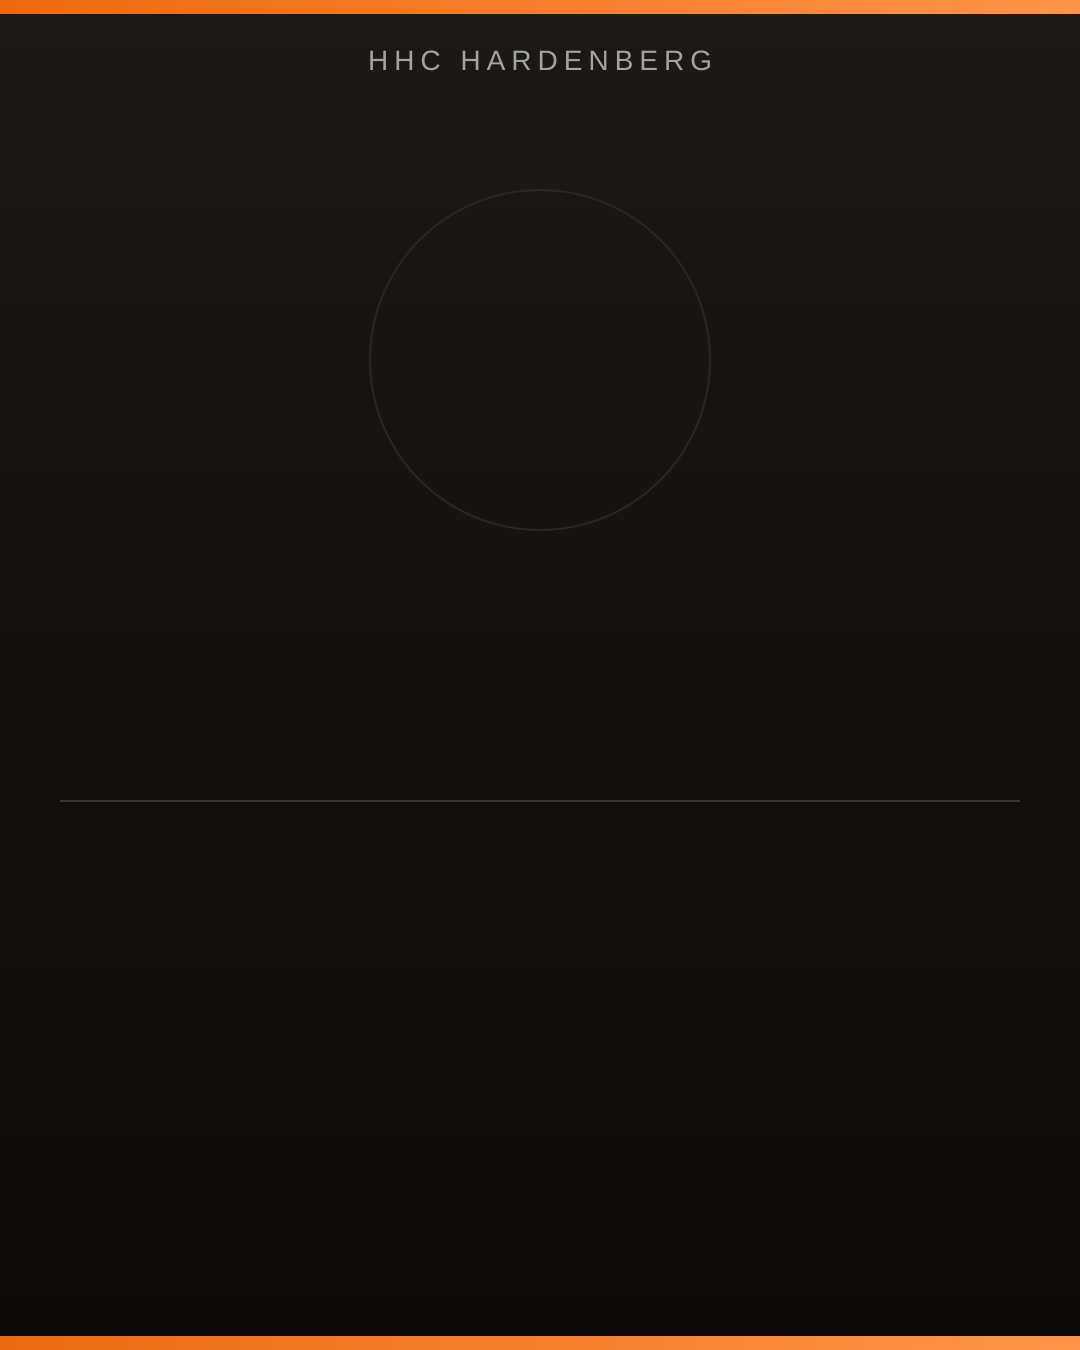
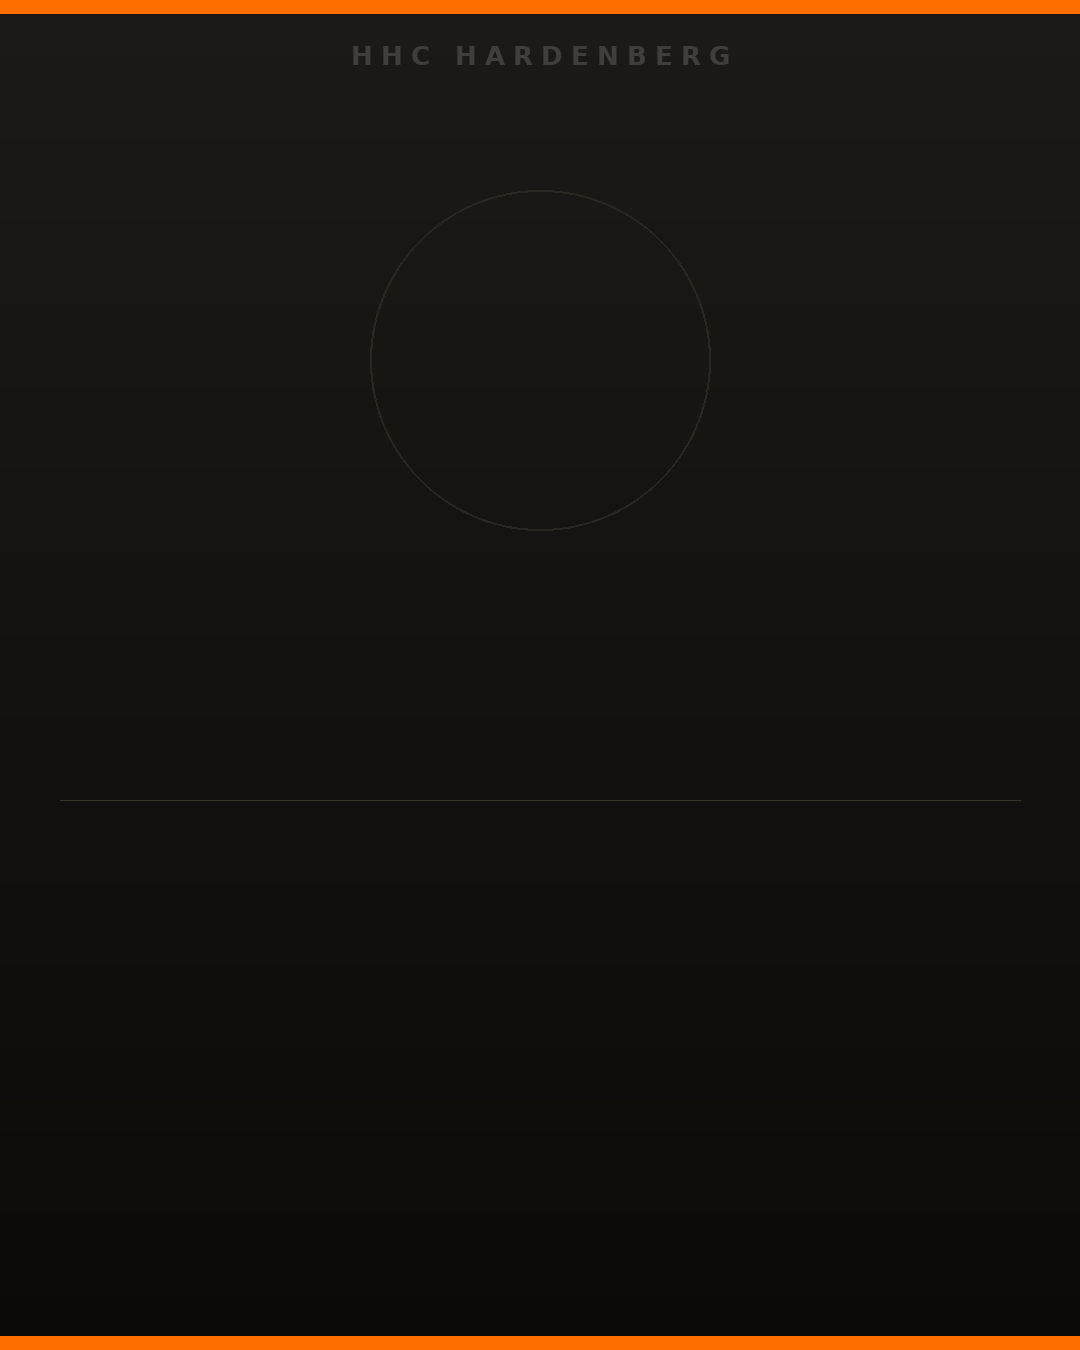
Align brand colors and typography with the official huisstijlhandboek
Corrected the official HHC Hardenberg brand colors to the exact values
in the club's huisstijlhandboek (Pantone Orange 021 / Pantone Black,
hex column): orange was #EA6A12 (an early approximation), now #FF6F00;
black was #14120F, now #000000. Updated every place these were
hardcoded as fallbacks/defaults (design tokens in globals.css, the
seeded BrandColor rows, PSD-import fallback colors, the color-layer
Zod schema default, and the seeded Matchday template + its static
background asset, regenerated with solid — not gradient — brand
orange, since the handbook explicitly requires orange to always be
used full-strength, never tinted).

While fixing the seed's brand colors, found and fixed a real data bug:
the old brandColor seeding used createMany + skipDuplicates on a
non-unique "name" field, so every re-run of the seed (e.g. via
/api/system/seed) silently created another duplicate row instead of
being a no-op. Replaced with a dedupe-and-update pass, and dropped two
non-official tinted swatches ("Oranje donker/licht") that were never
part of the handbook and contradict its "always full-strength, never a
tint" rule.

Also added a real typography fix: the browser (live preview + general
UI) never actually loaded admin-uploaded custom fonts like "FF DIN" —
only the server-side export did (see the earlier Inter-fallback fix).
Text using a custom font silently fell back to a system font in the
browser while the export showed the real font. Added <BrandFontFaces>,
[…]

Changed region(s): [[0.1222, 0.9644, 1.0, 1.0], [0.1222, 0.0, 1.0, 0.0622]]

diff --git a/src/lib/seed.ts b/src/lib/seed.ts
@@ -44,16 +44,46 @@ export async function runSeed(prisma: PrismaClient, options: SeedOptions): Promi
     },
   });
 
-  await prisma.brandColor.createMany({
-    data: [
-      { name: "HHC Oranje", hex: "#EA6A12", group: "primair", sortOrder: 0 },
-      { name: "HHC Zwart", hex: "#14120F", group: "primair", sortOrder: 1 },
-      { name: "HHC Wit", hex: "#FFFFFF", group: "primair", sortOrder: 2 },
-      { name: "Oranje donker", hex: "#C2530A", group: "secundair", sortOrder: 3 },
-      { name: "Oranje licht", hex: "#FF9548", group: "secundair", sortOrder: 4 },
-    ],
-    skipDuplicates: true,
-  });
+  // Officiële huisstijlkleuren uit het HHC Hardenberg huisstijlhandboek
+  // (PMS Orange 021 / PMS Black, RGB/hex-kolom). Het handboek stelt
+  // expliciet dat oranje altijd vol/ongemengd wordt toegepast — geen
+  // "secundaire" tinten dus. Bijgewerkt via een handmatige upsert (i.p.v.
+  // createMany+skipDuplicates, dat op het niet-unieke "name"-veld bij elke
+  // her-seed stilzwijgend een nieuwe dubbele rij aanmaakte in plaats van
+  // niets te doen) zodat een eerder met verkeerde hexwaarden geseede — en
+  // door die bug inmiddels gedupliceerde — omgeving bij het opnieuw draaien
+  // van deze seed alsnog wordt opgeschoond, zonder andere, door een admin
+  // zelf toegevoegde kleuren te raken.
+  const officialBrandColors = [
+    { name: "HHC Oranje", hex: "#FF6F00", group: "primair", sortOrder: 0 },
+    { name: "HHC Zwart", hex: "#000000", group: "primair", sortOrder: 1 },
+    { name: "HHC Wit", hex: "#FFFFFF", group: "primair", sortOrder: 2 },
+  ];
+  for (const color of officialBrandColors) {
+    const duplicates = await prisma.brandColor.findMany({
+      where: { name: color.name },
+      orderBy: { id: "asc" },
+    });
+    const [keep, ...extras] = duplicates;
+    if (extras.length > 0) {
+      await prisma.brandColor.deleteMany({ where: { id: { in: extras.map((e) => e.id) } } });
+    }
+    if (keep) {
+      await prisma.brandColor.update({
+        where: { id: keep.id },
+        data: { hex: color.hex, group: color.group, sortOrder: color.sortOrder },
+      });
+    } else {
+      await prisma.brandColor.create({ data: color });
+    }
+  }
+
+  // Deze twee tinten werden voorheen automatisch meegeseed, maar het
+  // huisstijlhandboek staat oranje alleen vol/ongemengd toe — nooit als
+  // tint. Ze stonden hier niet op verzoek van HHC, dus verwijderen we ze
+  // weer (alleen exact deze twee namen; door een admin zelf toegevoegde
+  // kleuren blijven onaangeroerd).
+  await prisma.brandColor.deleteMany({ where: { name: { in: ["Oranje donker", "Oranje licht"] } } });
 
   const club = await prisma.club.upsert({
     where: { id: "own-club-hhc" },
@@ -151,7 +181,7 @@ export async function runSeed(prisma: PrismaClient, options: SeedOptions): Promi
   const matchdaySchema: TemplateSchemaJson = {
     width: 1080,
     height: 1350,
-    backgroundColor: "#14120F",
+    backgroundColor: "#000000",
     layers: [
       { id: "bg", type: "background", x: 0, y: 0, width: 1080, height: 1350, src: "/templates/matchday/background.png" },
       {
@@ -167,7 +197,7 @@ export async function runSeed(prisma: PrismaClient, options: SeedOptions): Promi
         fontStyle: "normal",
         fontSize: 32,
         minFontSize: 20,
-        color: "#EA6A12",
+        color: "#FF6F00",
         align: "center",
         uppercase: true,
         letterSpacing: 4,
@@ -281,7 +311,7 @@ export async function runSeed(prisma: PrismaClient, options: SeedOptions): Promi
         height: 50,
         shape: "rect",
         cornerRadius: 0,
-        defaultColor: "#EA6A12",
+        defaultColor: "#FF6F00",
       },
     ],
   };
@@ -324,7 +354,7 @@ export async function runSeed(prisma: PrismaClient, options: SeedOptions): Promi
             { key: "date", label: "Datum", type: "DATE", required: true, sortOrder: 3 },
             { key: "time", label: "Aanvangstijd", type: "TIME", required: true, defaultValue: "15:30", sortOrder: 4 },
             { key: "location", label: "Locatie", type: "SHORT_TEXT", required: false, defaultValue: "Sportpark de Boshoek", maxLength: 60, sortOrder: 5 },
-            { key: "accent_color", label: "Accentkleur", type: "BRAND_COLOR", required: false, defaultValue: "#EA6A12", sortOrder: 6 },
+            { key: "accent_color", label: "Accentkleur", type: "BRAND_COLOR", required: false, defaultValue: "#FF6F00", sortOrder: 6 },
           ],
         },
       },

diff --git a/src/app/globals.css b/src/app/globals.css
@@ -5,12 +5,21 @@
  * Alle huisstijlkleuren staan hier als CSS-variabelen zodat de branding
  * later centraal kan worden aangepast zonder de rest van de applicatie
  * te hoeven wijzigen. Componenten mogen NOOIT een hexcode hardcoden.
+ *
+ * --hhc-orange en --hhc-black zijn de officiële huisstijlkleuren uit het
+ * HHC Hardenberg huisstijlhandboek (PMS Orange 021 = #FF6F00, PMS Black =
+ * #000000 op beeldscherm/RGB) — niet wijzigen zonder het handboek erbij te
+ * pakken. -dark/-light zijn GEEN officiële huisstijlkleuren (het handboek
+ * stelt expliciet dat oranje altijd vol/ongemengd wordt toegepast, nooit in
+ * een tint) maar puur functionele afgeleide tinten voor UI-interactiestaten
+ * (hover/pressed/subtiele achtergronden) — voor logo's, drukwerk en
+ * exports altijd de volle --hhc-orange gebruiken.
  */
 :root {
-  --hhc-orange: #ea6a12;
-  --hhc-orange-dark: #c2530a;
-  --hhc-orange-light: #ff9548;
-  --hhc-black: #14120f;
+  --hhc-orange: #ff6f00;
+  --hhc-orange-dark: #cc5900;
+  --hhc-orange-light: #ffb266;
+  --hhc-black: #000000;
   --hhc-white: #ffffff;
 
   --background: #f7f6f4;
@@ -60,6 +69,16 @@
   --radius-sm: calc(var(--radius) - 0.4rem);
 
   --font-sans: var(--font-inter);
+  /*
+   * Het huisstijlhandboek schrijft de DIN-letterfamilie voor. Die is
+   * commercieel gelicenseerd, dus wordt nooit in de git-repo meegeleverd —
+   * in plaats daarvan wordt hij (indien een admin "FF DIN" of "DIN Next"
+   * heeft geüpload via /admin/fonts) dynamisch als @font-face geladen, zie
+   * <BrandFontFaces> in layout.tsx. Zonder upload valt dit netjes terug op
+   * --font-sans, zodat een verse installatie nooit een lege/onzichtbare
+   * kop toont.
+   */
+  --font-heading: "FF DIN", "DIN Next", var(--font-sans);
 }
 
 * {
@@ -70,6 +89,13 @@ body {
   background: var(--background);
   color: var(--foreground);
   font-family: var(--font-sans), ui-sans-serif, system-ui, sans-serif;
+}
+
+/* Kopteksten in de huisstijlletter (DIN), zie --font-heading hierboven. */
+h1,
+h2,
+h3 {
+  font-family: var(--font-heading), ui-sans-serif, system-ui, sans-serif;
 }
 
 ::selection {

diff --git a/src/lib/psd/parse.ts b/src/lib/psd/parse.ts
@@ -226,7 +226,7 @@ export async function importPsd(buffer: Buffer): Promise<PsdImportResult> {
     const paragraph = textData?.paragraphStyleRuns?.[0]?.style ?? textData?.paragraphStyle;
     const fontSize = style?.fontSize ?? 32;
     const fontFamily = style?.font?.name ?? "Inter";
-    const color = style?.fillColor ? rgbToHex(style.fillColor) : "#14120F";
+    const color = style?.fillColor ? rgbToHex(style.fillColor) : "#000000";
     const align = justificationToAlign(paragraph?.justification);
     const letterSpacing = style?.tracking ? Math.round((style.tracking / 1000) * fontSize) : 0;
     const maxLines = info.height > fontSize * 1.8 ? 2 : 1;
@@ -294,7 +294,7 @@ export async function importPsd(buffer: Buffer): Promise<PsdImportResult> {
   }
 
   for (const info of dynamicColor) {
-    let defaultColor = "#EA6A12";
+    let defaultColor = "#FF6F00";
     if (info.layer.imageData) {
       const png = await pixelDataToPng(info.layer.imageData, 1);
       defaultColor = await averageColorHex(png);
@@ -384,7 +384,7 @@ function rgbToHex(c: unknown): string {
       .map((v) => v.toString(16).padStart(2, "0"))
       .join("")}`.toUpperCase();
   }
-  return "#14120F";
+  return "#000000";
 }
 
 function justificationToAlign(j: string | undefined): "left" | "center" | "right" {

diff --git a/src/components/brand-fonts.tsx b/src/components/brand-fonts.tsx
@@ -1,0 +1,32 @@
+import { prisma } from "@/lib/prisma";
+
+const FORMAT_KEYWORDS: Record<string, string> = {
+  woff2: "woff2",
+  woff: "woff",
+  ttf: "truetype",
+  otf: "opentype",
+};
+
+/**
+ * Injecteert @font-face-regels voor alle actieve, door een admin
+ * geüploade lettertypen (zie /admin/fonts) zodat ze niet alleen in de
+ * server-side export (src/lib/render/fonts.ts) maar ook in de browser
+ * — de live preview (Konva) én de rest van de UI — daadwerkelijk
+ * worden geladen. Zonder dit valt elke tekst in bv. "FF DIN" in de
+ * browser stilzwijgend terug op een systeemfont, terwijl de export
+ * wél het echte lettertype toont.
+ */
+export async function BrandFontFaces() {
+  const fonts = await prisma.font.findMany({ where: { isActive: true } });
+  if (fonts.length === 0) return null;
+
+  const css = fonts
+    .map((f) => {
+      const family = f.family.replace(/["\\]/g, "");
+      const format = FORMAT_KEYWORDS[f.format] ?? f.format;
+      return `@font-face{font-family:"${family}";src:url("${f.fileUrl}") format("${format}");font-weight:${f.weight};font-style:${f.style};font-display:swap;}`;
+    })
+    .join("\n");
+
+  return <style>{css}</style>;
+}

diff --git a/src/lib/validations/template.ts b/src/lib/validations/template.ts
@@ -61,7 +61,7 @@ export const textLayerSchema = layerCommonSchema.extend({
   fontStyle: z.enum(["normal", "italic"]).default("normal"),
   fontSize: z.number(),
   minFontSize: z.number().default(12),
-  color: z.string().default("#14120f"),
+  color: z.string().default("#000000"),
   align: alignSchema.default("left"),
   uppercase: z.boolean().default(false),
   letterSpacing: z.number().default(0),
@@ -86,7 +86,7 @@ export const colorLayerSchema = layerCommonSchema.extend({
   field: z.string(),
   shape: z.enum(["rect", "circle"]).default("rect"),
   cornerRadius: z.number().default(0),
-  defaultColor: z.string().default("#ea6a12"),
+  defaultColor: z.string().default("#ff6f00"),
 });
 
 export const layerSchema = z.discriminatedUnion("type", [

diff --git a/src/app/layout.tsx b/src/app/layout.tsx
@@ -2,6 +2,7 @@ import type { Metadata } from "next";
 import { Inter } from "next/font/google";
 import "./globals.css";
 import { Providers } from "@/components/providers";
+import { BrandFontFaces } from "@/components/brand-fonts";
 
 const inter = Inter({
   variable: "--font-inter",
@@ -17,6 +18,9 @@ export const metadata: Metadata = {
 export default function RootLayout({ children }: { children: React.ReactNode }) {
   return (
     <html lang="nl" className={`${inter.variable} h-full antialiased`}>
+      <head>
+        <BrandFontFaces />
+      </head>
       <body className="min-h-full flex flex-col bg-background text-foreground">
         <Providers>{children}</Providers>
       </body>

diff --git a/src/app/(app)/admin/colors/page.tsx b/src/app/(app)/admin/colors/page.tsx
@@ -15,7 +15,7 @@ interface BrandColor {
 export default function AdminColorsPage() {
   const [colors, setColors] = useState<BrandColor[]>([]);
   const [name, setName] = useState("");
-  const [hex, setHex] = useState("#EA6A12");
+  const [hex, setHex] = useState("#FF6F00");
   const [group, setGroup] = useState("algemeen");
 
   async function load() {

diff --git a/src/lib/psd/rasterize.ts b/src/lib/psd/rasterize.ts
@@ -101,7 +101,7 @@ export async function averageColorHex(png: Buffer): Promise<string> {
     b += data[i + 2];
     count++;
   }
-  if (count === 0) return "#EA6A12";
+  if (count === 0) return "#FF6F00";
   return rgbToHex(Math.round(r / count), Math.round(g / count), Math.round(b / count));
 }
 
